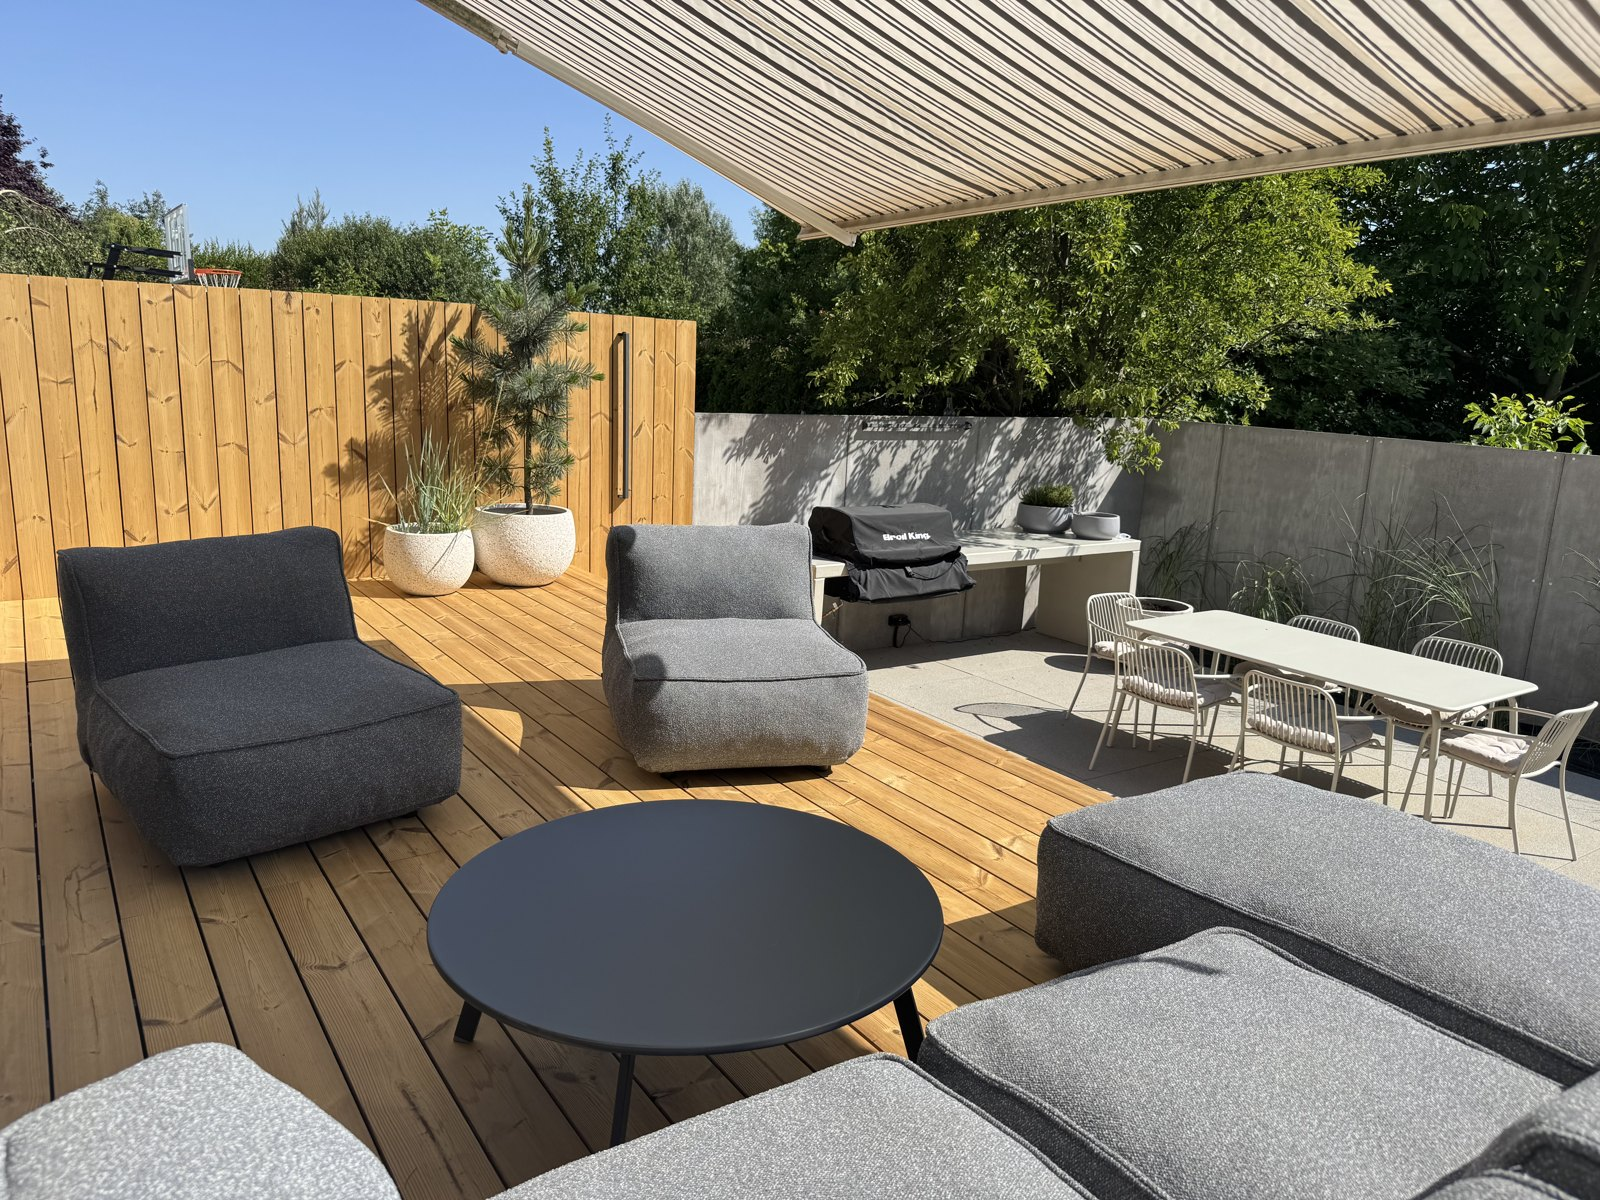
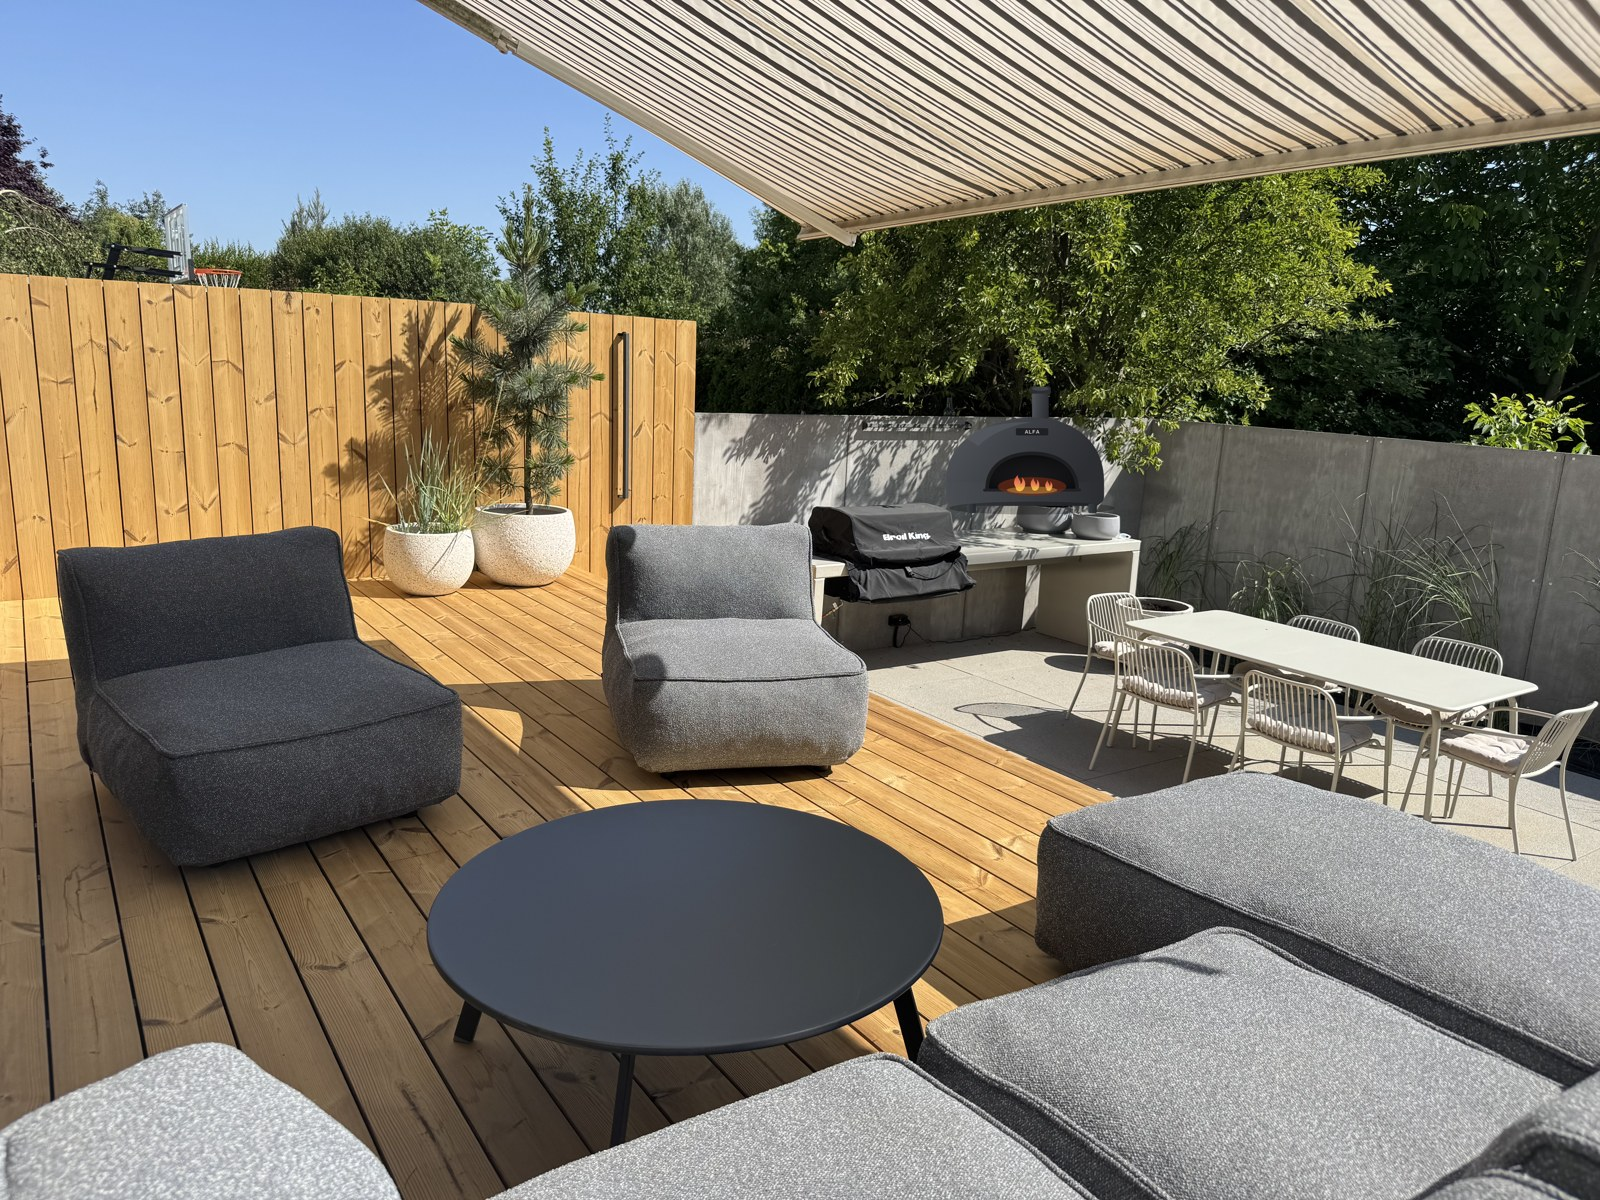
Add files via upload

Changed region(s): [[0.5938, 0.3083, 0.6875, 0.4933]]

diff --git a/index.html b/index.html
@@ -54,6 +54,7 @@ main{max-width:1060px;margin:0 auto;padding:0 24px 120px}
 .hero h1{font-family:var(--font-d);font-weight:600;font-size:clamp(34px,5.4vw,58px);letter-spacing:-.03em;line-height:1.06}
 .hero h1 em{font-style:italic;font-weight:400;color:var(--accent)}
 .hero p{margin:18px auto 0;max-width:520px;color:var(--muted);font-size:17px}
+.hero-logo{display:block;margin:0 auto;width:min(340px,80vw);height:auto}
 
 .eyebrow{font-size:12px;font-weight:500;letter-spacing:.14em;text-transform:uppercase;color:var(--faint);margin-bottom:10px}
 h2.section-t{font-family:var(--font-d);font-weight:600;font-size:clamp(24px,3vw,32px);letter-spacing:-.02em;margin-bottom:6px}
@@ -174,7 +175,7 @@ section{margin-top:72px}
 
 /* ---------- gallery ---------- */
 .gallery-hero{padding-bottom:32px}
-.kitchen-banner{position:relative;border-radius:26px;overflow:hidden;margin-bottom:8px;border:1px solid var(--line)}
+.kitchen-banner{position:relative;border-radius:26px;overflow:hidden;margin:56px 0 8px;border:1px solid var(--line)}
 .kitchen-banner img{width:100%;height:auto;display:block;aspect-ratio:3/1;object-fit:cover}
 .kitchen-banner figcaption{position:absolute;left:0;bottom:0;right:0;padding:40px 24px 18px;color:#fff;font-size:14px;font-weight:500;background:linear-gradient(transparent,rgba(20,20,18,.6))}
 .gallery-grid{display:grid;grid-template-columns:repeat(auto-fill,minmax(240px,1fr));gap:14px;margin-top:32px}
@@ -283,22 +284,13 @@ code{font-family:var(--font-b);font-size:.88em;background:var(--sand);padding:2p
 <!-- ============ TAB: GALERIA ============ -->
 <div class="panel" id="panel-galeria" role="tabpanel" aria-labelledby="tab-galeria">
 
-  <div class="hero gallery-hero">
-    <h1>Z pieca <em>prosto tutaj.</em></h1>
-    <p>Twoje wypieki z Alfa Forni. Zdjęcia dodajesz, wgrywając pliki do folderu <code>gallery/</code> w repozytorium.</p>
-  </div>
-
   <figure class="kitchen-banner">
     <img src="gallery/kuchnia-baner.jpg" alt="Kuchnia ogrodowa z piecem Alfa Forni" loading="lazy">
-    <figcaption>Kuchnia ogrodowa · piec Alfa Forni</figcaption>
   </figure>
 
   <section>
     <div id="galleryGrid" class="gallery-grid" aria-live="polite"></div>
-    <div id="galleryEmpty" class="gallery-empty" hidden>
-      <h3>Galeria czeka na pierwsze zdjęcie</h3>
-      <p>Wgraj plik do folderu <code>gallery/</code> i dopisz jego nazwę w <code>gallery/manifest.json</code>. Instrukcja jest w pliku <code>README.md</code>.</p>
-    </div>
+    <div id="galleryEmpty" class="gallery-empty" hidden></div>
   </section>
 
 </div>